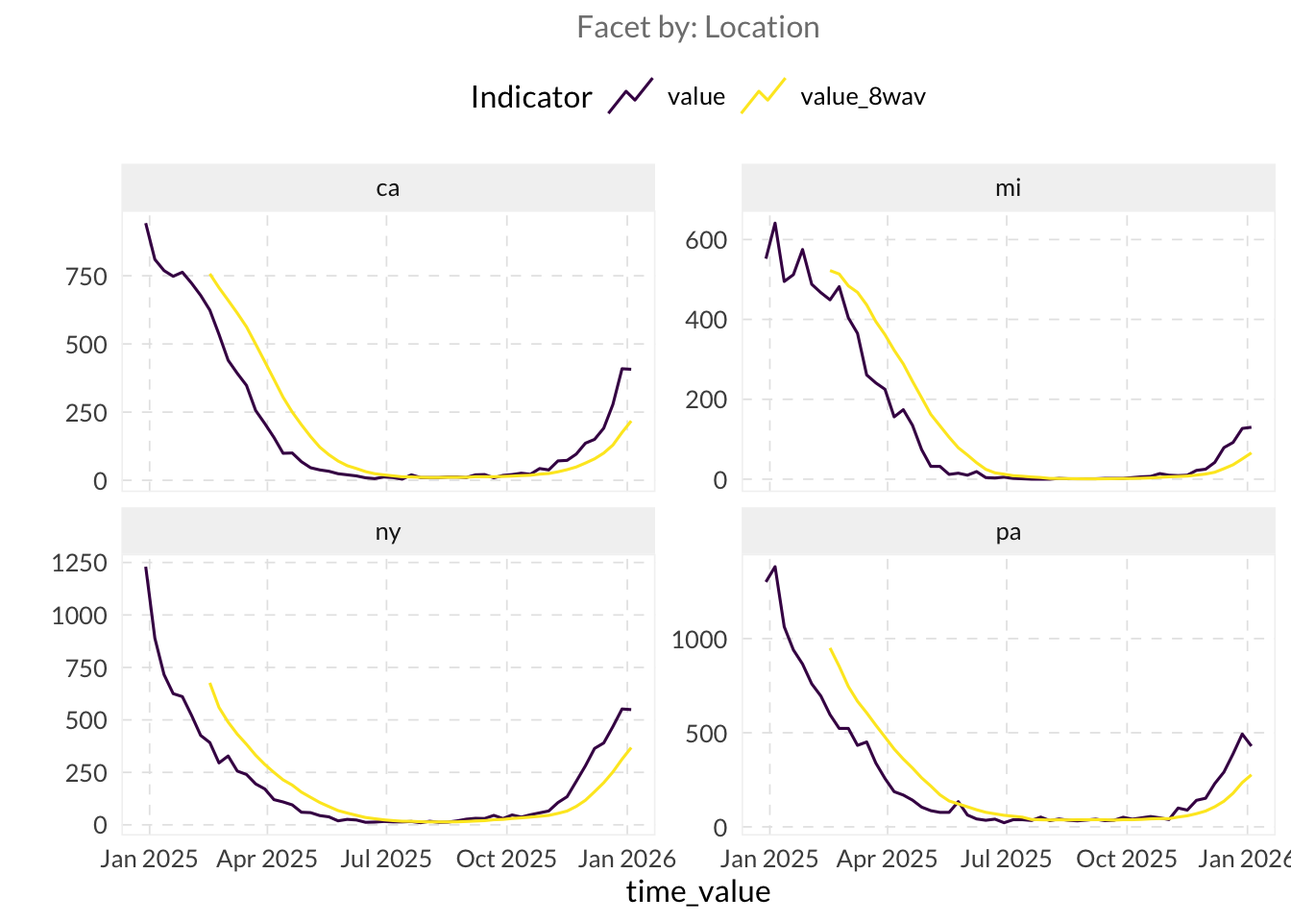
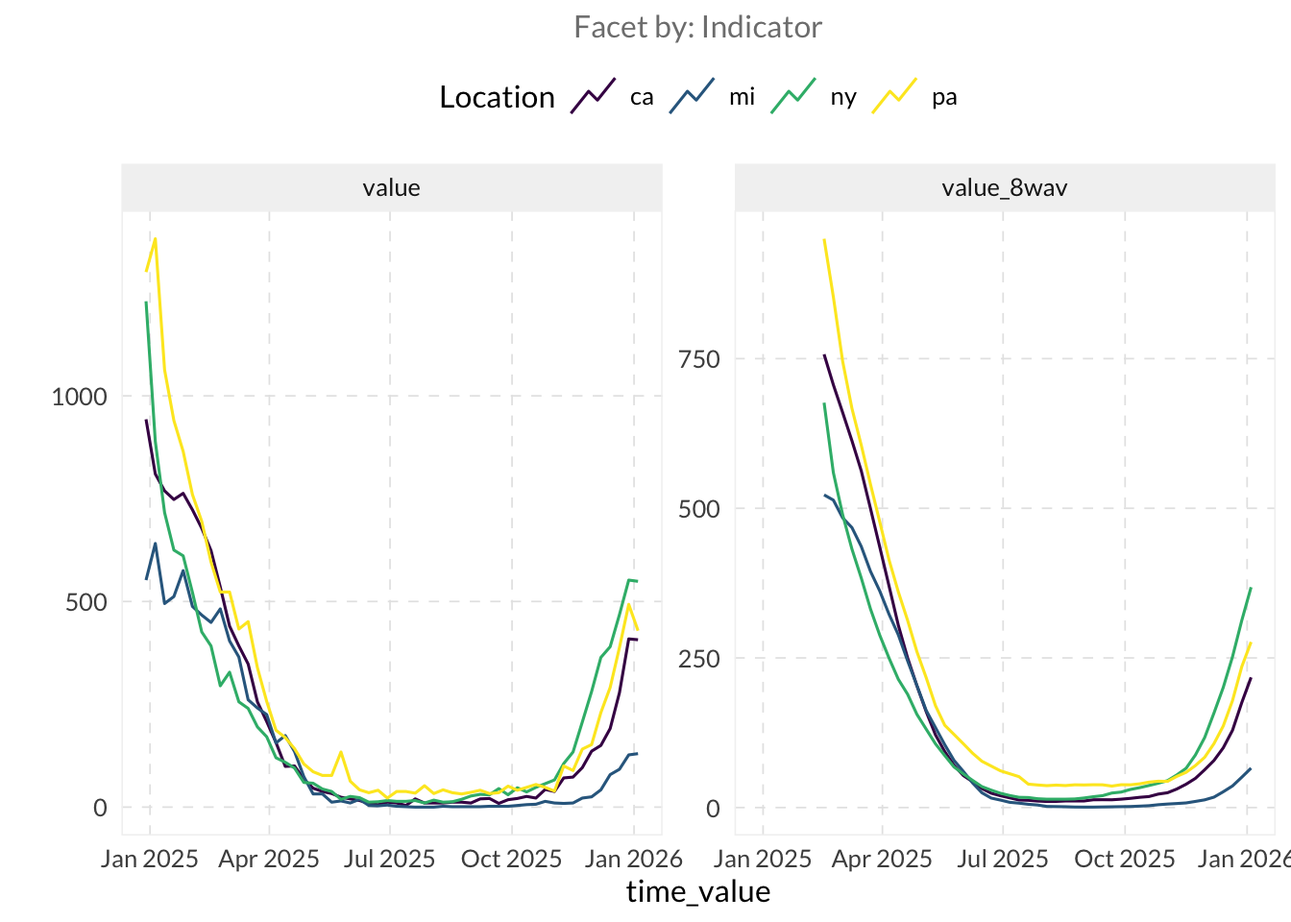
Built site for gh-pages

diff --git a/scripts/miniproject_2_solutions.html b/scripts/miniproject_2_solutions.html
@@ -226,14 +226,16 @@ pre > code.sourceCode > span > a:first-child::before { text-decoration: underlin
 <span id="cb2-11"><a href="#cb2-11" aria-hidden="true" tabindex="-1"></a>edf <span class="ot">&lt;-</span> epidata_nhsn_state <span class="sc">|&gt;</span> </span>
 <span id="cb2-12"><a href="#cb2-12" aria-hidden="true" tabindex="-1"></a>  <span class="fu">as_epi_df</span>()</span></code></pre></div><button title="Copy to Clipboard" class="code-copy-button"><i class="bi"></i></button></div>
 </div>
-<p>Check out your dataset! Type the object’s name for a quick look. Then use <code>summary()</code> to view the dataset’s metadata and overall statistics. For information on what each section means, visit <a href="https://cmu-delphi.github.io/epiprocess/dev/reference/print.epi_df.html" class="uri">https://cmu-delphi.github.io/epiprocess/dev/reference/print.epi_df.html</a></p>
+<ul>
+<li>Check out your dataset! Type the object’s name for a quick look. Then use <code>summary()</code> to view the dataset’s metadata and overall statistics. For information on what each section means, visit <a href="https://cmu-delphi.github.io/epiprocess/dev/reference/print.epi_df.html" class="uri">https://cmu-delphi.github.io/epiprocess/dev/reference/print.epi_df.html</a></li>
+</ul>
 <div class="cell">
 <div class="code-copy-outer-scaffold"><div class="sourceCode cell-code" id="cb3"><pre class="sourceCode r code-with-copy"><code class="sourceCode r"><span id="cb3-1"><a href="#cb3-1" aria-hidden="true" tabindex="-1"></a>edf</span></code></pre></div><button title="Copy to Clipboard" class="code-copy-button"><i class="bi"></i></button></div>
 <div class="cell-output cell-output-stdout">
 <pre><code>An `epi_df` object, 216 x 3 with metadata:
 * geo_type  = state
 * time_type = week
-* as_of     = 2026-04-22 14:20:23.035087
+* as_of     = 2026-04-22 14:29:35.125915
 Latency (lag from as_of to latest observation by time series):
 * lag  = 15 weeks
 
@@ -256,7 +258,7 @@ Latency (lag from as_of to latest observation by time series):
 <div class="cell-output cell-output-stdout">
 <pre><code>An `epi_df` x, with metadata:
 * geo_type  = state
-* as_of     = 2026-04-22 14:20:23.035087
+* as_of     = 2026-04-22 14:29:35.125915
 ----------
 Time range:
 * min time value              = 2024-12-29 (same for every time series)
@@ -294,7 +296,7 @@ Latency (lag from as_of to latest observation by time series):</code></pre>
 <pre><code>An `epi_df` object, 10 x 7 with metadata:
 * geo_type  = state
 * time_type = week
-* as_of     = 2026-04-22 14:20:23.035087
+* as_of     = 2026-04-22 14:29:35.125915
 Latency (lag from as_of to latest observation by time series):
 * lag across all time series = 59 weeks
 
@@ -317,11 +319,8 @@ Latency (lag from as_of to latest observation by time series):
 <blockquote class="blockquote">
 <p>🛈 Plot the different columns you calculated, and compare the results. How does changing the <code>.window_size</code> from 1 to 8 weeks impact the “noise” in your plot? Is there a trade-off between smoothness and time-accuracy?</p>
 </blockquote>
-<blockquote class="blockquote">
-<p><strong>Hint:</strong> use <code>.facet_by = "geo_value"</code> to view each state in its own panel.</p>
-</blockquote>
 <div class="cell">
-<div class="code-copy-outer-scaffold"><div class="sourceCode cell-code" id="cb9"><pre class="sourceCode r code-with-copy"><code class="sourceCode r"><span id="cb9-1"><a href="#cb9-1" aria-hidden="true" tabindex="-1"></a><span class="fu">autoplot</span>(edf, value, value_8wav, <span class="at">.facet_by =</span> <span class="st">"geo_value"</span>)</span></code></pre></div><button title="Copy to Clipboard" class="code-copy-button"><i class="bi"></i></button></div>
+<div class="code-copy-outer-scaffold"><div class="sourceCode cell-code" id="cb9"><pre class="sourceCode r code-with-copy"><code class="sourceCode r"><span id="cb9-1"><a href="#cb9-1" aria-hidden="true" tabindex="-1"></a><span class="fu">autoplot</span>(edf, value, value_8wav)</span></code></pre></div><button title="Copy to Clipboard" class="code-copy-button"><i class="bi"></i></button></div>
 <div class="cell-output-display">
 <div>
 <figure class="figure">
@@ -353,8 +352,8 @@ Latency (lag from as_of to latest observation by time series):
 </div>
 <div class="code-copy-outer-scaffold"><div class="sourceCode cell-code" id="cb11"><pre class="sourceCode r code-with-copy"><code class="sourceCode r"><span id="cb11-1"><a href="#cb11-1" aria-hidden="true" tabindex="-1"></a><span class="fu">autoplot</span>(edf, value, <span class="at">.interactive =</span> <span class="cn">TRUE</span>)</span></code></pre></div><button title="Copy to Clipboard" class="code-copy-button"><i class="bi"></i></button></div>
 <div class="cell-output-display">
-<div class="plotly html-widget html-fill-item" id="htmlwidget-69436a60ce44e3989980" style="width:100%;height:464px;"></div>
-<script type="application/json" data-for="htmlwidget-69436a60ce44e3989980">{"x":{"data":[{"x":[20086,20093,20100,20107,20114,20121,20128,20135,20142,20149,20156,20163,20170,20177,20184,20191,20198,20205,20212,20219,20226,20233,20240,20247,20254,20261,20268,20275,20282,20289,20296,20303,20310,20317,20324,20331,20338,20345,20352,20359,20366,20373,20380,20387,20394,20401,20408,20415,20422,20429,20436,20443,20450,20457],"y":[943,810,769,748,763,723,678,624,535,440,392,348,256,208,157,99,100,68,46,38,33,24,20,16,9,6,12,10,4,20,10,10,10,12,12,10,20,21,9,18,21,26,22,43,38,71,73,96,136,150,191,278,409,407],"text":["time_value: 2024-12-29<br />.response:  943<br />.colours: ca","time_value: 2025-01-05<br />.response:  810<br />.colours: ca","time_value: 2025-01-12<br />.response:  769<br />.colours: ca","time_value: 2025-01-19<br />.response:  748<br />.colours: ca","time_value: 2025-01-26<br />.response:  763<br />.colours: ca","time_value: 2025-02-02<br />.response:  723<br />.colours: ca","time_value: 2025-02-09<br />.response:  678<br />.colours: ca","time_value: 2025-02-16<br />.response:  624<br />.colours: ca","time_value: 2025-02-23<br />.response:  535<br />.colours: ca","time_value: 2025-03-02<br />.response:  440<br />.colours: ca","time_value: 2025-03-09<br />.response:  392<br />.colours: ca","time_value: 2025-03-16<br />.response:  348<br />.colours: ca","time_value: 2025-03-23<br />.response:  256<br />.colours: ca","time_value: 2025-03-30<br />.response:  208<br />.colours: ca","time_value: 2025-04-06<br />.response:  157<br />.colours: ca","time_value: 2025-04-13<br />.response:   99<br />.colours: ca","time_value: 2025-04-20<br />.response:  100<br />.colours: ca","time_value: 2025-04-27<br />.response:   68<br />.colours: ca","time_value: 2025-05-04<br />.response:   46<br />.colours: ca","time_value: 2025-05-11<br />.response:   38<br />.colours: ca","time_value: 2025-05-18<br />.response:   33<br />.colours: ca","time_value: 2025-05-25<br />.response:   24<br />.colours: ca","time_value: 2025-06-01<br />.response:   20<br />.colours: ca","time_value: 2025-06-08<br />.response:   16<br />.colours: ca","time_value: 2025-06-15<br />.response:    9<br />.colours: ca","time_value: 2025-06-22<br />.response:    6<br />.colours: ca","time_value: 2025-06-29<br />.response:   12<br />.colours: ca","time_value: 2025-07-06<br />.response:   10<br />.colours: ca","time_value: 2025-07-13<br />.response:    4<br />.colours: ca","time_value: 2025-07-20<br />.response:   20<br />.colours: ca","time_value: 2025-07-27<br />.response:   10<br />.colours: ca","time_value: 2025-08-03<br />.response:   10<br />.colours: ca","time_value: 2025-08-10<br />.response:   10<br />.colours: ca","time_value: 2025-08-17<br />.response:   12<br />.colours: ca","time_value: 2025-08-24<br />.response:   12<br />.colours: ca","time_value: 2025-08-31<br />.response:   10<br />.colours: ca","time_value: 2025-09-07<br />.response:   20<br />.colours: ca","time_value: 2025-09-14<br />.response:   21<br />.colours: ca","time_value: 2025-09-21<br />.response:    9<br />.colours: ca","time_value: 2025-09-28<br />.response:   18<br />.colours: ca","time_value: 2025-10-05<br />.response:   21<br />.colours: ca","time_value: 2025-10-12<br />.response:   26<br />.colours: ca","time_value: 2025-10-19<br />.response:   22<br />.colours: ca","time_value: 2025-10-26<br />.response:   43<br />.colours: ca","time_value: 2025-11-02<br />.response:   38<br />.colours: ca","time_value: 2025-11-09<br />.response:   71<br />.colours: ca","time_value: 2025-11-16<br />.response:   73<br />.colours: ca","time_value: 2025-11-23<br />.response:   96<br />.colours: ca","time_value: 2025-11-30<br />.response:  136<br />.colours: ca","time_value: 2025-12-07<br />.response:  150<br />.colours: ca","time_value: 2025-12-14<br />.response:  191<br />.colours: ca","time_value: 2025-12-21<br />.response:  278<br />.colours: ca","time_value: 2025-12-28<br />.response:  409<br />.colours: ca","time_value: 2026-01-04<br />.response:  407<br />.colours: ca"],"type":"scatter","mode":"lines","line":{"width":1.8897637795275593,"color":"rgba(68,1,84,1)","dash":"solid"},"hoveron":"points","name":"ca","legendgroup":"ca","showlegend":true,"xaxis":"x","yaxis":"y","hoverinfo":"text","frame":null},{"x":[20086,20093,20100,20107,20114,20121,20128,20135,20142,20149,20156,20163,20170,20177,20184,20191,20198,20205,20212,20219,20226,20233,20240,20247,20254,20261,20268,20275,20282,20289,20296,20303,20310,20317,20324,20331,20338,20345,20352,20359,20366,20373,20380,20387,20394,20401,20408,20415,20422,20429,20436,20443,20450,20457],"y":[552,641,495,512,575,488,467,449,482,404,365,261,241,225,156,174,135,74,32,32,12,15,10,19,4,3,5,2,1,0,0,0,2,1,1,1,1,2,2,2,4,6,7,14,10,9,10,22,25,42,79,92,127,130],"text":["time_value: 2024-12-29<br />.response:  552<br />.colours: mi","time_value: 2025-01-05<br />.response:  641<br />.colours: mi","time_value: 2025-01-12<br />.response:  495<br />.colours: mi","time_value: 2025-01-19<br />.response:  512<br />.colours: mi","time_value: 2025-01-26<br />.response:  575<br />.colours: mi","time_value: 2025-02-02<br />.response:  488<br />.colours: mi","time_value: 2025-02-09<br />.response:  467<br />.colours: mi","time_value: 2025-02-16<br />.response:  449<br />.colours: mi","time_value: 2025-02-23<br />.response:  482<br />.colours: mi","time_value: 2025-03-02<br />.response:  404<br />.colours: mi","time_value: 2025-03-09<br />.response:  365<br />.colours: mi","time_value: 2025-03-16<br />.response:  261<br />.colours: mi","time_value: 2025-03-23<br />.response:  241<br />.colours: mi","time_value: 2025-03-30<br />.response:  225<br />.colours: mi","time_value: 2025-04-06<br />.response:  156<br />.colours: mi","time_value: 2025-04-13<br />.response:  174<br />.colours: mi","time_value: 2025-04-20<br />.response:  135<br />.colours: mi","time_value: 2025-04-27<br />.response:   74<br />.colours: mi","time_value: 2025-05-04<br />.response:   32<br />.colours: mi","time_value: 2025-05-11<br />.response:   32<br />.colours: mi","time_value: 2025-05-18<br />.response:   12<br />.colours: mi","time_value: 2025-05-25<br />.response:   15<br />.colours: mi","time_value: 2025-06-01<br />.response:   10<br />.colours: mi","time_value: 2025-06-08<br />.response:   19<br />.colours: mi","time_value: 2025-06-15<br />.response:    4<br />.colours: mi","time_value: 2025-06-22<br />.response:    3<br />.colours: mi","time_value: 2025-06-29<br />.response:    5<br />.colours: mi","time_value: 2025-07-06<br />.response:    2<br />.colours: mi","time_value: 2025-07-13<br />.response:    1<br />.colours: mi","time_value: 2025-07-20<br />.response:    0<br />.colours: mi","time_value: 2025-07-27<br />.response:    0<br />.colours: mi","time_value: 2025-08-03<br />.response:    0<br />.colours: mi","time_value: 2025-08-10<br />.response:    2<br />.colours: mi","time_value: 2025-08-17<br />.response:    1<br />.colours: mi","time_value: 2025-08-24<br />.response:    1<br />.colours: mi","time_value: 2025-08-31<br />.response:    1<br />.colours: mi","time_value: 2025-09-07<br />.response:    1<br />.colours: mi","time_value: 2025-09-14<br />.response:    2<br />.colours: mi","time_value: 2025-09-21<br />.response:    2<br />.colours: mi","time_value: 2025-09-28<br />.response:    2<br />.colours: mi","time_value: 2025-10-05<br />.response:    4<br />.colours: mi","time_value: 2025-10-12<br />.response:    6<br />.colours: mi","time_value: 2025-10-19<br />.response:    7<br />.colours: mi","time_value: 2025-10-26<br />.response:   14<br />.colours: mi","time_value: 2025-11-02<br />.response:   10<br />.colours: mi","time_value: 2025-11-09<br />.response:    9<br />.colours: mi","time_value: 2025-11-16<br />.response:   10<br />.colours: mi","time_value: 2025-11-23<br />.response:   22<br />.colours: mi","time_value: 2025-11-30<br />.response:   25<br />.colours: mi","time_value: 2025-12-07<br />.response:   42<br />.colours: mi","time_value: 2025-12-14<br />.response:   79<br />.colours: mi","time_value: 2025-12-21<br />.response:   92<br />.colours: mi","time_value: 2025-12-28<br />.response:  127<br />.colours: mi","time_value: 2026-01-04<br />.response:  130<br />.colours: mi"],"type":"scatter","mode":"lines","line":{"width":1.8897637795275593,"color":"rgba(49,104,142,1)","dash":"solid"},"hoveron":"points","name":"mi","legendgroup":"mi","showlegend":true,"xaxis":"x","yaxis":"y","hoverinfo":"text","frame":null},{"x":[20086,20093,20100,20107,20114,20121,20128,20135,20142,20149,20156,20163,20170,20177,20184,20191,20198,20205,20212,20219,20226,20233,20240,20247,20254,20261,20268,20275,20282,20289,20296,20303,20310,20317,20324,20331,20338,20345,20352,20359,20366,20373,20380,20387,20394,20401,20408,20415,20422,20429,20436,20443,20450,20457],"y":[1230,889,716,625,611,522,426,392,295,328,256,240,195,171,120,109,95,60,58,44,38,19,26,23,12,13,16,14,14,16,10,17,12,13,19,27,31,30,45,30,47,37,48,57,66,106,134,207,281,364,390,468,552,549],"text":["time_value: 2024-12-29<br />.response: 1230<br />.colours: ny","time_value: 2025-01-05<br />.response:  889<br />.colours: ny","time_value: 2025-01-12<br />.response:  716<br />.colours: ny","time_value: 2025-01-19<br />.response:  625<br />.colours: ny","time_value: 2025-01-26<br />.response:  611<br />.colours: ny","time_value: 2025-02-02<br />.response:  522<br />.colours: ny","time_value: 2025-02-09<br />.response:  426<br />.colours: ny","time_value: 2025-02-16<br />.response:  392<br />.colours: ny","time_value: 2025-02-23<br />.response:  295<br />.colours: ny","time_value: 2025-03-02<br />.response:  328<br />.colours: ny","time_value: 2025-03-09<br />.response:  256<br />.colours: ny","time_value: 2025-03-16<br />.response:  240<br />.colours: ny","time_value: 2025-03-23<br />.response:  195<br />.colours: ny","time_value: 2025-03-30<br />.response:  171<br />.colours: ny","time_value: 2025-04-06<br />.response:  120<br />.colours: ny","time_value: 2025-04-13<br />.response:  109<br />.colours: ny","time_value: 2025-04-20<br />.response:   95<br />.colours: ny","time_value: 2025-04-27<br />.response:   60<br />.colours: ny","time_value: 2025-05-04<br />.response:   58<br />.colours: ny","time_value: 2025-05-11<br />.response:   44<br />.colours: ny","time_value: 2025-05-18<br />.response:   38<br />.colours: ny","time_value: 2025-05-25<br />.response:   19<br />.colours: ny","time_value: 2025-06-01<br />.response:   26<br />.colours: ny","time_value: 2025-06-08<br />.response:   23<br />.colours: ny","time_value: 2025-06-15<br />.response:   12<br />.colours: ny","time_value: 2025-06-22<br />.response:   13<br />.colours: ny","time_value: 2025-06-29<br />.response:   16<br />.colours: ny","time_value: 2025-07-06<br />.response:   14<br />.colours: ny","time_value: 2025-07-13<br />.response:   14<br />.colours: ny","time_value: 2025-07-20<br />.response:   16<br />.colours: ny","time_value: 2025-07-27<br />.response:   10<br />.colours: ny","time_value: 2025-08-03<br />.response:   17<br />.colours: ny","time_value: 2025-08-10<br />.response:   12<br />.colours: ny","time_value: 2025-08-17<br />.response:   13<br />.colours: ny","time_value: 2025-08-24<br />.response:   19<br />.colours: ny","time_value: 2025-08-31<br />.response:   27<br />.colours: ny","time_value: 2025-09-07<br />.response:   31<br />.colours: ny","time_value: 2025-09-14<br />.response:   30<br />.colours: ny","time_value: 2025-09-21<br />.response:   45<br />.colours: ny","time_value: 2025-09-28<br />.response:   30<br />.colours: ny","time_value: 2025-10-05<br />.response:   47<br />.colours: ny","time_value: 2025-10-12<br />.response:   37<br />.colours: ny","time_value: 2025-10-19<br />.response:   48<br />.colours: ny","time_value: 2025-10-26<br />.response:   57<br />.colours: ny","time_value: 2025-11-02<br />.response:   66<br />.colours: ny","time_value: 2025-11-09<br />.response:  106<br />.colours: ny","time_value: 2025-11-16<br />.response:  134<br />.colours: ny","time_value: 2025-11-23<br />.response:  207<br />.colours: ny","time_value: 2025-11-30<br />.response:  281<br />.colours: ny","time_value: 2025-12-07<br />.response:  364<br />.colours: ny","time_value: 2025-12-14<br />.response:  390<br />.colours: ny","time_value: 2025-12-21<br />.response:  468<br />.colours: ny","time_value: 2025-12-28<br />.response:  552<br />.colours: ny","time_value: 2026-01-04<br />.response:  549<br />.colours: ny"],"type":"scatter","mode":"lines","line":{"width":1.8897637795275593,"color":"rgba(53,183,121,1)","dash":"solid"},"hoveron":"points","name":"ny","legendgroup":"ny","showlegend":true,"xaxis":"x","yaxis":"y","hoverinfo":"text","frame":null},{"x":[20086,20093,20100,20107,20114,20121,20128,20135,20142,20149,20156,20163,20170,20177,20184,20191,20198,20205,20212,20219,20226,20233,20240,20247,20254,20261,20268,20275,20282,20289,20296,20303,20310,20317,20324,20331,20338,20345,20352,20359,20366,20373,20380,20387,20394,20401,20408,20415,20422,20429,20436,20443,20450,20457],"y":[1301,1382,1063,940,865,760,695,596,523,523,433,451,339,257,187,169,142,105,86,77,77,134,63,42,35,41,22,38,38,34,52,33,42,35,32,36,41,33,35,51,41,48,55,48,39,100,89,141,152,230,291,388,493,429],"text":["time_value: 2024-12-29<br />.response: 1301<br />.colours: pa","time_value: 2025-01-05<br />.response: 1382<br />.colours: pa","time_value: 2025-01-12<br />.response: 1063<br />.colours: pa","time_value: 2025-01-19<br />.response:  940<br />.colours: pa","time_value: 2025-01-26<br />.response:  865<br />.colours: pa","time_value: 2025-02-02<br />.response:  760<br />.colours: pa","time_value: 2025-02-09<br />.response:  695<br />.colours: pa","time_value: 2025-02-16<br />.response:  596<br />.colours: pa","time_value: 2025-02-23<br />.response:  523<br />.colours: pa","time_value: 2025-03-02<br />.response:  523<br />.colours: pa","time_value: 2025-03-09<br />.response:  433<br />.colours: pa","time_value: 2025-03-16<br />.response:  451<br />.colours: pa","time_value: 2025-03-23<br />.response:  339<br />.colours: pa","time_value: 2025-03-30<br />.response:  257<br />.colours: pa","time_value: 2025-04-06<br />.response:  187<br />.colours: pa","time_value: 2025-04-13<br />.response:  169<br />.colours: pa","time_value: 2025-04-20<br />.response:  142<br />.colours: pa","time_value: 2025-04-27<br />.response:  105<br />.colours: pa","time_value: 2025-05-04<br />.response:   86<br />.colours: pa","time_value: 2025-05-11<br />.response:   77<br />.colours: pa","time_value: 2025-05-18<br />.response:   77<br />.colours: pa","time_value: 2025-05-25<br />.response:  134<br />.colours: pa","time_value: 2025-06-01<br />.response:   63<br />.colours: pa","time_value: 2025-06-08<br />.response:   42<br />.colours: pa","time_value: 2025-06-15<br />.response:   35<br />.colours: pa","time_value: 2025-06-22<br />.response:   41<br />.colours: pa","time_value: 2025-06-29<br />.response:   22<br />.colours: pa","time_value: 2025-07-06<br />.response:   38<br />.colours: pa","time_value: 2025-07-13<br />.response:   38<br />.colours: pa","time_value: 2025-07-20<br />.response:   34<br />.colours: pa","time_value: 2025-07-27<br />.response:   52<br />.colours: pa","time_value: 2025-08-03<br />.response:   33<br />.colours: pa","time_value: 2025-08-10<br />.response:   42<br />.colours: pa","time_value: 2025-08-17<br />.response:   35<br />.colours: pa","time_value: 2025-08-24<br />.response:   32<br />.colours: pa","time_value: 2025-08-31<br />.response:   36<br />.colours: pa","time_value: 2025-09-07<br />.response:   41<br />.colours: pa","time_value: 2025-09-14<br />.response:   33<br />.colours: pa","time_value: 2025-09-21<br />.response:   35<br />.colours: pa","time_value: 2025-09-28<br />.response:   51<br />.colours: pa","time_value: 2025-10-05<br />.response:   41<br />.colours: pa","time_value: 2025-10-12<br />.response:   48<br />.colours: pa","time_value: 2025-10-19<br />.response:   55<br />.colours: pa","time_value: 2025-10-26<br />.response:   48<br />.colours: pa","time_value: 2025-11-02<br />.response:   39<br />.colours: pa","time_value: 2025-11-09<br />.response:  100<br />.colours: pa","time_value: 2025-11-16<br />.response:   89<br />.colours: pa","time_value: 2025-11-23<br />.response:  141<br />.colours: pa","time_value: 2025-11-30<br />.response:  152<br />.colours: pa","time_value: 2025-12-07<br />.response:  230<br />.colours: pa","time_value: 2025-12-14<br />.response:  291<br />.colours: pa","time_value: 2025-12-21<br />.response:  388<br />.colours: pa","time_value: 2025-12-28<br />.response:  493<br />.colours: pa","time_value: 2026-01-04<br />.response:  429<br />.colours: pa"],"type":"scatter","mode":"lines","line":{"width":1.8897637795275593,"color":"rgba(253,231,37,1)","dash":"solid"},"hoveron":"points","name":"pa","legendgroup":"pa","showlegend":true,"xaxis":"x","yaxis":"y","hoverinfo":"text","frame":null}],"layout":{"margin":{"t":23.970112079701121,"r":7.9701120797011216,"b":40.647571606475722,"l":37.459526774595282},"paper_bgcolor":"rgba(255,255,255,1)","font":{"color":"rgba(0,0,0,1)","family":"Lato","size":15.940224159402241},"xaxis":{"domain":[0,1],"automargin":true,"type":"linear","autorange":false,"range":[20067.450000000001,20475.549999999999],"tickmode":"array","ticktext":["Jan 2025","Apr 2025","Jul 2025","Oct 2025","Jan 2026"],"tickvals":[20089,20179,20270,20362,20454],"categoryorder":"array","categoryarray":["Jan 2025","Apr 2025","Jul 2025","Oct 2025","Jan 2026"],"nticks":null,"ticks":"","tickcolor":null,"ticklen":3.9850560398505603,"tickwidth":0,"showticklabels":true,"tickfont":{"color":"rgba(77,77,77,1)","family":"Lato","size":12.7521793275218},"tickangle":-0,"showline":false,"linecolor":null,"linewidth":0,"showgrid":true,"gridcolor":"rgba(229,229,229,1)","gridwidth":0.39850560398505613,"zeroline":false,"anchor":"y","title":{"text":"time_value","font":{"color":"rgba(0,0,0,1)","family":"Lato","size":15.940224159402241}},"hoverformat":".2f"},"yaxis":{"domain":[0,1],"automargin":true,"type":"linear","autorange":false,"range":[-69.100000000000009,1451.0999999999999],"tickmode":"array","ticktext":["0","500","1000"],"tickvals":[0,500,999.99999999999989],"categoryorder":"array","categoryarray":["0","500","1000"],"nticks":null,"ticks":"","tickcolor":null,"ticklen":3.9850560398505608,"tickwidth":0,"showticklabels":true,"tickfont":{"color":"rgba(77,77,77,1)","family":"Lato","size":12.7521793275218},"tickangle":-0,"showline":false,"linecolor":null,"linewidth":0,"showgrid":true,"gridcolor":"rgba(229,229,229,1)","gridwidth":0.39850560398505613,"zeroline":false,"anchor":"x","title":{"text":"","font":{"color":"rgba(0,0,0,1)","family":"Lato","size":15.940224159402241}},"hoverformat":".2f","fixedrange":true},"shapes":[{"type":"rect","fillcolor":"transparent","line":{"color":"rgba(242,242,242,1)","width":0.72455564360919289,"linetype":"solid"},"yref":"paper","xref":"paper","layer":"below","x0":0,"x1":1,"y0":0,"y1":1}],"showlegend":true,"legend":{"bgcolor":null,"bordercolor":null,"borderwidth":0,"font":{"color":"rgba(0,0,0,1)","family":"Lato","size":12.7521793275218},"orientation":"h","x":0.5,"y":1.02,"xanchor":"center","yanchor":"bottom","title":{"text":"Location","font":{"color":"rgba(0,0,0,1)","family":"Lato","size":15.940224159402241}}},"hovermode":"closest","barmode":"relative"},"config":{"doubleClick":"reset","modeBarButtonsToAdd":["hoverclosest","hovercompare"],"showSendToCloud":false,"modeBarButtonsToRemove":["zoomIn2d","zoomOut2d"]},"source":"A","attrs":{"ed1e4a6fc97e":{"x":{},"y":{},"colour":{},"type":"scatter"}},"cur_data":"ed1e4a6fc97e","visdat":{"ed1e4a6fc97e":["function (y) ","x"]},"highlight":{"on":"plotly_click","persistent":false,"dynamic":false,"selectize":false,"opacityDim":0.20000000000000001,"selected":{"opacity":1},"debounce":0},"shinyEvents":["plotly_hover","plotly_click","plotly_selected","plotly_relayout","plotly_brushed","plotly_brushing","plotly_clickannotation","plotly_doubleclick","plotly_deselect","plotly_afterplot","plotly_sunburstclick"],"base_url":"https://plot.ly"},"evals":[],"jsHooks":[]}</script>
+<div class="plotly html-widget html-fill-item" id="htmlwidget-2d77c9c02183e1cad3dd" style="width:100%;height:464px;"></div>
+<script type="application/json" data-for="htmlwidget-2d77c9c02183e1cad3dd">{"x":{"data":[{"x":[20086,20093,20100,20107,20114,20121,20128,20135,20142,20149,20156,20163,20170,20177,20184,20191,20198,20205,20212,20219,20226,20233,20240,20247,20254,20261,20268,20275,20282,20289,20296,20303,20310,20317,20324,20331,20338,20345,20352,20359,20366,20373,20380,20387,20394,20401,20408,20415,20422,20429,20436,20443,20450,20457],"y":[943,810,769,748,763,723,678,624,535,440,392,348,256,208,157,99,100,68,46,38,33,24,20,16,9,6,12,10,4,20,10,10,10,12,12,10,20,21,9,18,21,26,22,43,38,71,73,96,136,150,191,278,409,407],"text":["time_value: 2024-12-29<br />.response:  943<br />.colours: ca","time_value: 2025-01-05<br />.response:  810<br />.colours: ca","time_value: 2025-01-12<br />.response:  769<br />.colours: ca","time_value: 2025-01-19<br />.response:  748<br />.colours: ca","time_value: 2025-01-26<br />.response:  763<br />.colours: ca","time_value: 2025-02-02<br />.response:  723<br />.colours: ca","time_value: 2025-02-09<br />.response:  678<br />.colours: ca","time_value: 2025-02-16<br />.response:  624<br />.colours: ca","time_value: 2025-02-23<br />.response:  535<br />.colours: ca","time_value: 2025-03-02<br />.response:  440<br />.colours: ca","time_value: 2025-03-09<br />.response:  392<br />.colours: ca","time_value: 2025-03-16<br />.response:  348<br />.colours: ca","time_value: 2025-03-23<br />.response:  256<br />.colours: ca","time_value: 2025-03-30<br />.response:  208<br />.colours: ca","time_value: 2025-04-06<br />.response:  157<br />.colours: ca","time_value: 2025-04-13<br />.response:   99<br />.colours: ca","time_value: 2025-04-20<br />.response:  100<br />.colours: ca","time_value: 2025-04-27<br />.response:   68<br />.colours: ca","time_value: 2025-05-04<br />.response:   46<br />.colours: ca","time_value: 2025-05-11<br />.response:   38<br />.colours: ca","time_value: 2025-05-18<br />.response:   33<br />.colours: ca","time_value: 2025-05-25<br />.response:   24<br />.colours: ca","time_value: 2025-06-01<br />.response:   20<br />.colours: ca","time_value: 2025-06-08<br />.response:   16<br />.colours: ca","time_value: 2025-06-15<br />.response:    9<br />.colours: ca","time_value: 2025-06-22<br />.response:    6<br />.colours: ca","time_value: 2025-06-29<br />.response:   12<br />.colours: ca","time_value: 2025-07-06<br />.response:   10<br />.colours: ca","time_value: 2025-07-13<br />.response:    4<br />.colours: ca","time_value: 2025-07-20<br />.response:   20<br />.colours: ca","time_value: 2025-07-27<br />.response:   10<br />.colours: ca","time_value: 2025-08-03<br />.response:   10<br />.colours: ca","time_value: 2025-08-10<br />.response:   10<br />.colours: ca","time_value: 2025-08-17<br />.response:   12<br />.colours: ca","time_value: 2025-08-24<br />.response:   12<br />.colours: ca","time_value: 2025-08-31<br />.response:   10<br />.colours: ca","time_value: 2025-09-07<br />.response:   20<br />.colours: ca","time_value: 2025-09-14<br />.response:   21<br />.colours: ca","time_value: 2025-09-21<br />.response:    9<br />.colours: ca","time_value: 2025-09-28<br />.response:   18<br />.colours: ca","time_value: 2025-10-05<br />.response:   21<br />.colours: ca","time_value: 2025-10-12<br />.response:   26<br />.colours: ca","time_value: 2025-10-19<br />.response:   22<br />.colours: ca","time_value: 2025-10-26<br />.response:   43<br />.colours: ca","time_value: 2025-11-02<br />.response:   38<br />.colours: ca","time_value: 2025-11-09<br />.response:   71<br />.colours: ca","time_value: 2025-11-16<br />.response:   73<br />.colours: ca","time_value: 2025-11-23<br />.response:   96<br />.colours: ca","time_value: 2025-11-30<br />.response:  136<br />.colours: ca","time_value: 2025-12-07<br />.response:  150<br />.colours: ca","time_value: 2025-12-14<br />.response:  191<br />.colours: ca","time_value: 2025-12-21<br />.response:  278<br />.colours: ca","time_value: 2025-12-28<br />.response:  409<br />.colours: ca","time_value: 2026-01-04<br />.response:  407<br />.colours: ca"],"type":"scatter","mode":"lines","line":{"width":1.8897637795275593,"color":"rgba(68,1,84,1)","dash":"solid"},"hoveron":"points","name":"ca","legendgroup":"ca","showlegend":true,"xaxis":"x","yaxis":"y","hoverinfo":"text","frame":null},{"x":[20086,20093,20100,20107,20114,20121,20128,20135,20142,20149,20156,20163,20170,20177,20184,20191,20198,20205,20212,20219,20226,20233,20240,20247,20254,20261,20268,20275,20282,20289,20296,20303,20310,20317,20324,20331,20338,20345,20352,20359,20366,20373,20380,20387,20394,20401,20408,20415,20422,20429,20436,20443,20450,20457],"y":[552,641,495,512,575,488,467,449,482,404,365,261,241,225,156,174,135,74,32,32,12,15,10,19,4,3,5,2,1,0,0,0,2,1,1,1,1,2,2,2,4,6,7,14,10,9,10,22,25,42,79,92,127,130],"text":["time_value: 2024-12-29<br />.response:  552<br />.colours: mi","time_value: 2025-01-05<br />.response:  641<br />.colours: mi","time_value: 2025-01-12<br />.response:  495<br />.colours: mi","time_value: 2025-01-19<br />.response:  512<br />.colours: mi","time_value: 2025-01-26<br />.response:  575<br />.colours: mi","time_value: 2025-02-02<br />.response:  488<br />.colours: mi","time_value: 2025-02-09<br />.response:  467<br />.colours: mi","time_value: 2025-02-16<br />.response:  449<br />.colours: mi","time_value: 2025-02-23<br />.response:  482<br />.colours: mi","time_value: 2025-03-02<br />.response:  404<br />.colours: mi","time_value: 2025-03-09<br />.response:  365<br />.colours: mi","time_value: 2025-03-16<br />.response:  261<br />.colours: mi","time_value: 2025-03-23<br />.response:  241<br />.colours: mi","time_value: 2025-03-30<br />.response:  225<br />.colours: mi","time_value: 2025-04-06<br />.response:  156<br />.colours: mi","time_value: 2025-04-13<br />.response:  174<br />.colours: mi","time_value: 2025-04-20<br />.response:  135<br />.colours: mi","time_value: 2025-04-27<br />.response:   74<br />.colours: mi","time_value: 2025-05-04<br />.response:   32<br />.colours: mi","time_value: 2025-05-11<br />.response:   32<br />.colours: mi","time_value: 2025-05-18<br />.response:   12<br />.colours: mi","time_value: 2025-05-25<br />.response:   15<br />.colours: mi","time_value: 2025-06-01<br />.response:   10<br />.colours: mi","time_value: 2025-06-08<br />.response:   19<br />.colours: mi","time_value: 2025-06-15<br />.response:    4<br />.colours: mi","time_value: 2025-06-22<br />.response:    3<br />.colours: mi","time_value: 2025-06-29<br />.response:    5<br />.colours: mi","time_value: 2025-07-06<br />.response:    2<br />.colours: mi","time_value: 2025-07-13<br />.response:    1<br />.colours: mi","time_value: 2025-07-20<br />.response:    0<br />.colours: mi","time_value: 2025-07-27<br />.response:    0<br />.colours: mi","time_value: 2025-08-03<br />.response:    0<br />.colours: mi","time_value: 2025-08-10<br />.response:    2<br />.colours: mi","time_value: 2025-08-17<br />.response:    1<br />.colours: mi","time_value: 2025-08-24<br />.response:    1<br />.colours: mi","time_value: 2025-08-31<br />.response:    1<br />.colours: mi","time_value: 2025-09-07<br />.response:    1<br />.colours: mi","time_value: 2025-09-14<br />.response:    2<br />.colours: mi","time_value: 2025-09-21<br />.response:    2<br />.colours: mi","time_value: 2025-09-28<br />.response:    2<br />.colours: mi","time_value: 2025-10-05<br />.response:    4<br />.colours: mi","time_value: 2025-10-12<br />.response:    6<br />.colours: mi","time_value: 2025-10-19<br />.response:    7<br />.colours: mi","time_value: 2025-10-26<br />.response:   14<br />.colours: mi","time_value: 2025-11-02<br />.response:   10<br />.colours: mi","time_value: 2025-11-09<br />.response:    9<br />.colours: mi","time_value: 2025-11-16<br />.response:   10<br />.colours: mi","time_value: 2025-11-23<br />.response:   22<br />.colours: mi","time_value: 2025-11-30<br />.response:   25<br />.colours: mi","time_value: 2025-12-07<br />.response:   42<br />.colours: mi","time_value: 2025-12-14<br />.response:   79<br />.colours: mi","time_value: 2025-12-21<br />.response:   92<br />.colours: mi","time_value: 2025-12-28<br />.response:  127<br />.colours: mi","time_value: 2026-01-04<br />.response:  130<br />.colours: mi"],"type":"scatter","mode":"lines","line":{"width":1.8897637795275593,"color":"rgba(49,104,142,1)","dash":"solid"},"hoveron":"points","name":"mi","legendgroup":"mi","showlegend":true,"xaxis":"x","yaxis":"y","hoverinfo":"text","frame":null},{"x":[20086,20093,20100,20107,20114,20121,20128,20135,20142,20149,20156,20163,20170,20177,20184,20191,20198,20205,20212,20219,20226,20233,20240,20247,20254,20261,20268,20275,20282,20289,20296,20303,20310,20317,20324,20331,20338,20345,20352,20359,20366,20373,20380,20387,20394,20401,20408,20415,20422,20429,20436,20443,20450,20457],"y":[1230,889,716,625,611,522,426,392,295,328,256,240,195,171,120,109,95,60,58,44,38,19,26,23,12,13,16,14,14,16,10,17,12,13,19,27,31,30,45,30,47,37,48,57,66,106,134,207,281,364,390,468,552,549],"text":["time_value: 2024-12-29<br />.response: 1230<br />.colours: ny","time_value: 2025-01-05<br />.response:  889<br />.colours: ny","time_value: 2025-01-12<br />.response:  716<br />.colours: ny","time_value: 2025-01-19<br />.response:  625<br />.colours: ny","time_value: 2025-01-26<br />.response:  611<br />.colours: ny","time_value: 2025-02-02<br />.response:  522<br />.colours: ny","time_value: 2025-02-09<br />.response:  426<br />.colours: ny","time_value: 2025-02-16<br />.response:  392<br />.colours: ny","time_value: 2025-02-23<br />.response:  295<br />.colours: ny","time_value: 2025-03-02<br />.response:  328<br />.colours: ny","time_value: 2025-03-09<br />.response:  256<br />.colours: ny","time_value: 2025-03-16<br />.response:  240<br />.colours: ny","time_value: 2025-03-23<br />.response:  195<br />.colours: ny","time_value: 2025-03-30<br />.response:  171<br />.colours: ny","time_value: 2025-04-06<br />.response:  120<br />.colours: ny","time_value: 2025-04-13<br />.response:  109<br />.colours: ny","time_value: 2025-04-20<br />.response:   95<br />.colours: ny","time_value: 2025-04-27<br />.response:   60<br />.colours: ny","time_value: 2025-05-04<br />.response:   58<br />.colours: ny","time_value: 2025-05-11<br />.response:   44<br />.colours: ny","time_value: 2025-05-18<br />.response:   38<br />.colours: ny","time_value: 2025-05-25<br />.response:   19<br />.colours: ny","time_value: 2025-06-01<br />.response:   26<br />.colours: ny","time_value: 2025-06-08<br />.response:   23<br />.colours: ny","time_value: 2025-06-15<br />.response:   12<br />.colours: ny","time_value: 2025-06-22<br />.response:   13<br />.colours: ny","time_value: 2025-06-29<br />.response:   16<br />.colours: ny","time_value: 2025-07-06<br />.response:   14<br />.colours: ny","time_value: 2025-07-13<br />.response:   14<br />.colours: ny","time_value: 2025-07-20<br />.response:   16<br />.colours: ny","time_value: 2025-07-27<br />.response:   10<br />.colours: ny","time_value: 2025-08-03<br />.response:   17<br />.colours: ny","time_value: 2025-08-10<br />.response:   12<br />.colours: ny","time_value: 2025-08-17<br />.response:   13<br />.colours: ny","time_value: 2025-08-24<br />.response:   19<br />.colours: ny","time_value: 2025-08-31<br />.response:   27<br />.colours: ny","time_value: 2025-09-07<br />.response:   31<br />.colours: ny","time_value: 2025-09-14<br />.response:   30<br />.colours: ny","time_value: 2025-09-21<br />.response:   45<br />.colours: ny","time_value: 2025-09-28<br />.response:   30<br />.colours: ny","time_value: 2025-10-05<br />.response:   47<br />.colours: ny","time_value: 2025-10-12<br />.response:   37<br />.colours: ny","time_value: 2025-10-19<br />.response:   48<br />.colours: ny","time_value: 2025-10-26<br />.response:   57<br />.colours: ny","time_value: 2025-11-02<br />.response:   66<br />.colours: ny","time_value: 2025-11-09<br />.response:  106<br />.colours: ny","time_value: 2025-11-16<br />.response:  134<br />.colours: ny","time_value: 2025-11-23<br />.response:  207<br />.colours: ny","time_value: 2025-11-30<br />.response:  281<br />.colours: ny","time_value: 2025-12-07<br />.response:  364<br />.colours: ny","time_value: 2025-12-14<br />.response:  390<br />.colours: ny","time_value: 2025-12-21<br />.response:  468<br />.colours: ny","time_value: 2025-12-28<br />.response:  552<br />.colours: ny","time_value: 2026-01-04<br />.response:  549<br />.colours: ny"],"type":"scatter","mode":"lines","line":{"width":1.8897637795275593,"color":"rgba(53,183,121,1)","dash":"solid"},"hoveron":"points","name":"ny","legendgroup":"ny","showlegend":true,"xaxis":"x","yaxis":"y","hoverinfo":"text","frame":null},{"x":[20086,20093,20100,20107,20114,20121,20128,20135,20142,20149,20156,20163,20170,20177,20184,20191,20198,20205,20212,20219,20226,20233,20240,20247,20254,20261,20268,20275,20282,20289,20296,20303,20310,20317,20324,20331,20338,20345,20352,20359,20366,20373,20380,20387,20394,20401,20408,20415,20422,20429,20436,20443,20450,20457],"y":[1301,1382,1063,940,865,760,695,596,523,523,433,451,339,257,187,169,142,105,86,77,77,134,63,42,35,41,22,38,38,34,52,33,42,35,32,36,41,33,35,51,41,48,55,48,39,100,89,141,152,230,291,388,493,429],"text":["time_value: 2024-12-29<br />.response: 1301<br />.colours: pa","time_value: 2025-01-05<br />.response: 1382<br />.colours: pa","time_value: 2025-01-12<br />.response: 1063<br />.colours: pa","time_value: 2025-01-19<br />.response:  940<br />.colours: pa","time_value: 2025-01-26<br />.response:  865<br />.colours: pa","time_value: 2025-02-02<br />.response:  760<br />.colours: pa","time_value: 2025-02-09<br />.response:  695<br />.colours: pa","time_value: 2025-02-16<br />.response:  596<br />.colours: pa","time_value: 2025-02-23<br />.response:  523<br />.colours: pa","time_value: 2025-03-02<br />.response:  523<br />.colours: pa","time_value: 2025-03-09<br />.response:  433<br />.colours: pa","time_value: 2025-03-16<br />.response:  451<br />.colours: pa","time_value: 2025-03-23<br />.response:  339<br />.colours: pa","time_value: 2025-03-30<br />.response:  257<br />.colours: pa","time_value: 2025-04-06<br />.response:  187<br />.colours: pa","time_value: 2025-04-13<br />.response:  169<br />.colours: pa","time_value: 2025-04-20<br />.response:  142<br />.colours: pa","time_value: 2025-04-27<br />.response:  105<br />.colours: pa","time_value: 2025-05-04<br />.response:   86<br />.colours: pa","time_value: 2025-05-11<br />.response:   77<br />.colours: pa","time_value: 2025-05-18<br />.response:   77<br />.colours: pa","time_value: 2025-05-25<br />.response:  134<br />.colours: pa","time_value: 2025-06-01<br />.response:   63<br />.colours: pa","time_value: 2025-06-08<br />.response:   42<br />.colours: pa","time_value: 2025-06-15<br />.response:   35<br />.colours: pa","time_value: 2025-06-22<br />.response:   41<br />.colours: pa","time_value: 2025-06-29<br />.response:   22<br />.colours: pa","time_value: 2025-07-06<br />.response:   38<br />.colours: pa","time_value: 2025-07-13<br />.response:   38<br />.colours: pa","time_value: 2025-07-20<br />.response:   34<br />.colours: pa","time_value: 2025-07-27<br />.response:   52<br />.colours: pa","time_value: 2025-08-03<br />.response:   33<br />.colours: pa","time_value: 2025-08-10<br />.response:   42<br />.colours: pa","time_value: 2025-08-17<br />.response:   35<br />.colours: pa","time_value: 2025-08-24<br />.response:   32<br />.colours: pa","time_value: 2025-08-31<br />.response:   36<br />.colours: pa","time_value: 2025-09-07<br />.response:   41<br />.colours: pa","time_value: 2025-09-14<br />.response:   33<br />.colours: pa","time_value: 2025-09-21<br />.response:   35<br />.colours: pa","time_value: 2025-09-28<br />.response:   51<br />.colours: pa","time_value: 2025-10-05<br />.response:   41<br />.colours: pa","time_value: 2025-10-12<br />.response:   48<br />.colours: pa","time_value: 2025-10-19<br />.response:   55<br />.colours: pa","time_value: 2025-10-26<br />.response:   48<br />.colours: pa","time_value: 2025-11-02<br />.response:   39<br />.colours: pa","time_value: 2025-11-09<br />.response:  100<br />.colours: pa","time_value: 2025-11-16<br />.response:   89<br />.colours: pa","time_value: 2025-11-23<br />.response:  141<br />.colours: pa","time_value: 2025-11-30<br />.response:  152<br />.colours: pa","time_value: 2025-12-07<br />.response:  230<br />.colours: pa","time_value: 2025-12-14<br />.response:  291<br />.colours: pa","time_value: 2025-12-21<br />.response:  388<br />.colours: pa","time_value: 2025-12-28<br />.response:  493<br />.colours: pa","time_value: 2026-01-04<br />.response:  429<br />.colours: pa"],"type":"scatter","mode":"lines","line":{"width":1.8897637795275593,"color":"rgba(253,231,37,1)","dash":"solid"},"hoveron":"points","name":"pa","legendgroup":"pa","showlegend":true,"xaxis":"x","yaxis":"y","hoverinfo":"text","frame":null}],"layout":{"margin":{"t":23.970112079701121,"r":7.9701120797011216,"b":40.647571606475722,"l":37.459526774595282},"paper_bgcolor":"rgba(255,255,255,1)","font":{"color":"rgba(0,0,0,1)","family":"Lato","size":15.940224159402241},"xaxis":{"domain":[0,1],"automargin":true,"type":"linear","autorange":false,"range":[20067.450000000001,20475.549999999999],"tickmode":"array","ticktext":["Jan 2025","Apr 2025","Jul 2025","Oct 2025","Jan 2026"],"tickvals":[20089,20179,20270,20362,20454],"categoryorder":"array","categoryarray":["Jan 2025","Apr 2025","Jul 2025","Oct 2025","Jan 2026"],"nticks":null,"ticks":"","tickcolor":null,"ticklen":3.9850560398505603,"tickwidth":0,"showticklabels":true,"tickfont":{"color":"rgba(77,77,77,1)","family":"Lato","size":12.7521793275218},"tickangle":-0,"showline":false,"linecolor":null,"linewidth":0,"showgrid":true,"gridcolor":"rgba(229,229,229,1)","gridwidth":0.39850560398505613,"zeroline":false,"anchor":"y","title":{"text":"time_value","font":{"color":"rgba(0,0,0,1)","family":"Lato","size":15.940224159402241}},"hoverformat":".2f"},"yaxis":{"domain":[0,1],"automargin":true,"type":"linear","autorange":false,"range":[-69.100000000000009,1451.0999999999999],"tickmode":"array","ticktext":["0","500","1000"],"tickvals":[0,500,999.99999999999989],"categoryorder":"array","categoryarray":["0","500","1000"],"nticks":null,"ticks":"","tickcolor":null,"ticklen":3.9850560398505608,"tickwidth":0,"showticklabels":true,"tickfont":{"color":"rgba(77,77,77,1)","family":"Lato","size":12.7521793275218},"tickangle":-0,"showline":false,"linecolor":null,"linewidth":0,"showgrid":true,"gridcolor":"rgba(229,229,229,1)","gridwidth":0.39850560398505613,"zeroline":false,"anchor":"x","title":{"text":"","font":{"color":"rgba(0,0,0,1)","family":"Lato","size":15.940224159402241}},"hoverformat":".2f","fixedrange":true},"shapes":[{"type":"rect","fillcolor":"transparent","line":{"color":"rgba(242,242,242,1)","width":0.72455564360919289,"linetype":"solid"},"yref":"paper","xref":"paper","layer":"below","x0":0,"x1":1,"y0":0,"y1":1}],"showlegend":true,"legend":{"bgcolor":null,"bordercolor":null,"borderwidth":0,"font":{"color":"rgba(0,0,0,1)","family":"Lato","size":12.7521793275218},"orientation":"h","x":0.5,"y":1.02,"xanchor":"center","yanchor":"bottom","title":{"text":"Location","font":{"color":"rgba(0,0,0,1)","family":"Lato","size":15.940224159402241}}},"hovermode":"closest","barmode":"relative"},"config":{"doubleClick":"reset","modeBarButtonsToAdd":["hoverclosest","hovercompare"],"showSendToCloud":false,"modeBarButtonsToRemove":["zoomIn2d","zoomOut2d"]},"source":"A","attrs":{"f16c5324a5b4":{"x":{},"y":{},"colour":{},"type":"scatter"}},"cur_data":"f16c5324a5b4","visdat":{"f16c5324a5b4":["function (y) ","x"]},"highlight":{"on":"plotly_click","persistent":false,"dynamic":false,"selectize":false,"opacityDim":0.20000000000000001,"selected":{"opacity":1},"debounce":0},"shinyEvents":["plotly_hover","plotly_click","plotly_selected","plotly_relayout","plotly_brushed","plotly_brushing","plotly_clickannotation","plotly_doubleclick","plotly_deselect","plotly_afterplot","plotly_sunburstclick"],"base_url":"https://plot.ly"},"evals":[],"jsHooks":[]}</script>
 </div>
 <div class="code-copy-outer-scaffold"><div class="sourceCode cell-code" id="cb12"><pre class="sourceCode r code-with-copy"><code class="sourceCode r"><span id="cb12-1"><a href="#cb12-1" aria-hidden="true" tabindex="-1"></a><span class="fu">plot_heatmap</span>(edf, value) <span class="sc">+</span></span>
 <span id="cb12-2"><a href="#cb12-2" aria-hidden="true" tabindex="-1"></a>  <span class="fu">coord_cartesian</span>(<span class="at">xlim =</span> <span class="fu">as.Date</span>(<span class="fu">c</span>(<span class="st">"2025-06-01"</span>, <span class="st">"2026-01-01"</span>)))</span></code></pre></div><button title="Copy to Clipboard" class="code-copy-button"><i class="bi"></i></button></div>
@@ -456,7 +455,7 @@ Latency (lag from as_of to latest observation by time series):
 <pre><code>An `epi_df` object, 639 x 4 with metadata:
 * geo_type  = state
 * time_type = week
-* as_of     = 2026-04-22 14:20:30.092142
+* as_of     = 2026-04-22 14:29:42.945585
 Latency (lag from as_of to latest observation by time series):
 * lag across all time series = 49–54 weeks (see summary() for per-signal details)
 
